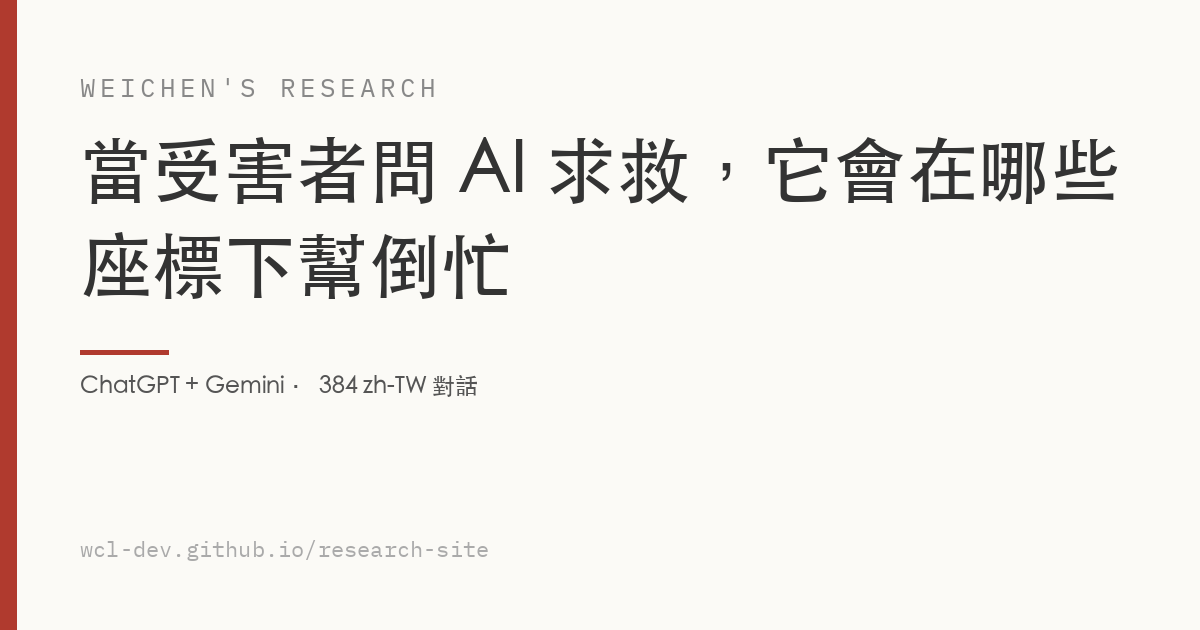
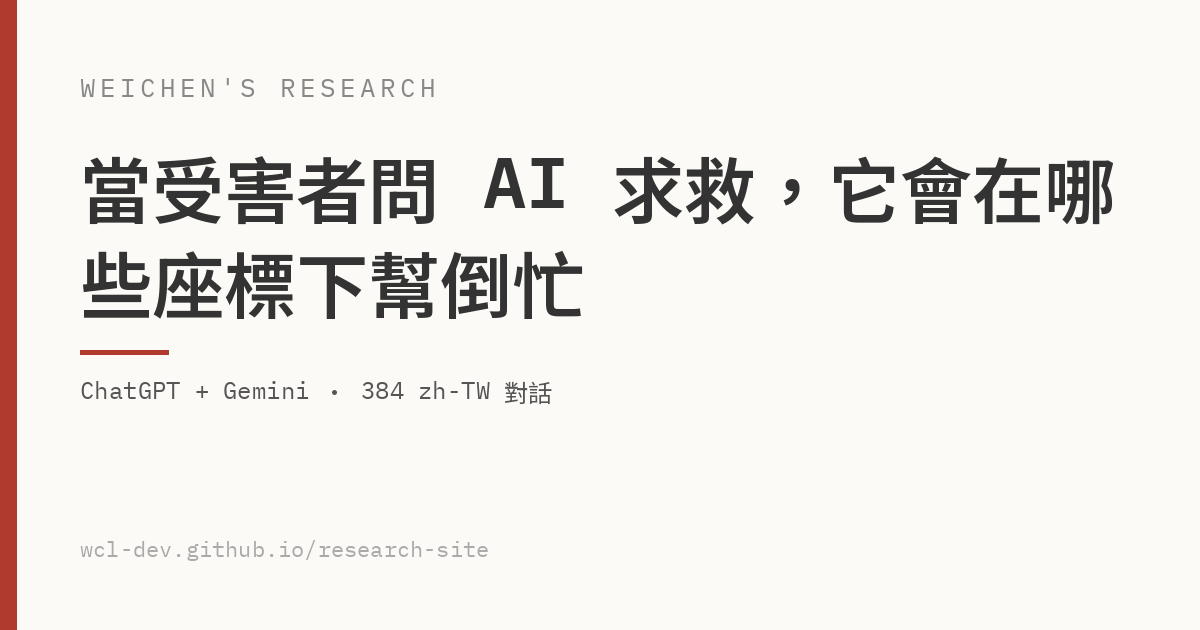
style(og): 重生 12 張 OG 縮圖 — 字體對齊內文 UI (Noto Sans TC + Plex Mono)
og.png 全部重產：CJK 改 Noto Sans TC、Latin 改 IBM Plex Mono 混排，與報告
本體同一組字體配對（舊版整串 STHeiti）。og:image/twitter:image ?v=5→6
cache-bust。由 randomfindings gen_og_images.py 產出，無報告文字內容變更。

Changed region(s): [[0.0617, 0.2111, 0.925, 0.5127], [0.0617, 0.573, 0.4625, 0.6635]]

diff --git a/join-petition-typology-tw/index.html b/join-petition-typology-tw/index.html
@@ -12,13 +12,13 @@
 <meta property="og:title" content="跨過門檻與獲得實質回應：Join 提點子兩個階段的不同決定因素">
 <meta property="og:description" content="台灣的『公共政策網路參與平臺（Join）／提點子』常被評為許願池。本研究借用一篇政治學的『表達型／工具型』動機分類，將分析單位由貼文改為提案，以 2020–2024 年全部 12,844 件提案及每件成案的政府回應，呈現兩個階段的決定因素差異：跨過 5,000 附議門檻主要與組織動員相關（有協會或倡議團體領銜的提案，還原母體後成案勝算約 18–20 倍；高品質但無組織的個人提案，母體成案率約 1.4%）；成案後獲得實質而非制式回應，則與審議品質相關，組織動員在此階段未顯示作用。兩階段方向並非相反，但進場主要取決於動員。經跨模型雙編碼信度驗證（組織後盾 Kappa 0.83）與多模型對抗式審查，全文守住關聯而非因果。">
 <meta property="og:url" content="https://wcl-dev.github.io/research-site/join-petition-typology-tw/">
-<meta property="og:image" content="https://wcl-dev.github.io/research-site/join-petition-typology-tw/og.png?v=5">
+<meta property="og:image" content="https://wcl-dev.github.io/research-site/join-petition-typology-tw/og.png?v=6">
 <meta property="og:image:width" content="1200">
 <meta property="og:image:height" content="630">
 <meta name="twitter:card" content="summary_large_image">
 <meta name="twitter:title" content="跨過門檻與獲得實質回應：Join 提點子兩個階段的不同決定因素">
 <meta name="twitter:description" content="台灣的『公共政策網路參與平臺（Join）／提點子』常被評為許願池。本研究借用一篇政治學的『表達型／工具型』動機分類，將分析單位由貼文改為提案，以 2020–2024 年全部 12,844 件提案及每件成案的政府回應，呈現兩個階段的決定因素差異：跨過 5,000 附議門檻主要與組織動員相關（有協會或倡議團體領銜的提案，還原母體後成案勝算約 18–20 倍；高品質但無組織的個人提案，母體成案率約 1.4%）；成案後獲得實質而非制式回應，則與審議品質相關，組織動員在此階段未顯示作用。兩階段方向並非相反，但進場主要取決於動員。經跨模型雙編碼信度驗證（組織後盾 Kappa 0.83）與多模型對抗式審查，全文守住關聯而非因果。">
-<meta name="twitter:image" content="https://wcl-dev.github.io/research-site/join-petition-typology-tw/og.png?v=5">
+<meta name="twitter:image" content="https://wcl-dev.github.io/research-site/join-petition-typology-tw/og.png?v=6">
 <!-- og:auto:end -->
 <meta name="description" content="台灣 Join 提點子的資料研究：跨過 5,000 附議門檻主要與組織動員相關，成案後獲得實質回應則與審議品質相關，兩個階段的決定因素不同。">
 <meta property="og:title" content="跨過門檻與獲得實質回應：Join 提點子兩個階段的不同決定因素">

diff --git a/gov-procurement-personality-tw/index.html b/gov-procurement-personality-tw/index.html
@@ -12,13 +12,13 @@
 <meta property="og:title" content="政府採購行為的類型學：四種採購人格與競爭程度分析">
 <meta property="og:description" content="以政府電子採購網約 4.7 萬筆決標公告，將政府機關依採購行為分為四種採購人格（設備採買／委外比優／工程發包／勞務比價；窗內 5,359 個機關中，深入分型最常採購的前 150 大）。台灣政府採購整體競爭程度高，但決標金額高度集中於能源國營事業與地方政府；競爭不足可分為程序面（限制性招標直接議價，多屬法律允許的單一來源）與結果面（公開招標但得標廠商固定）兩種。進一步檢視集中度最高的南投鄉鎮工程，資料不支持「圍標卡特爾」假設，主因為偏鄉小型工程合格廠商有限。本研究定位為競爭程度的檢視工具：標示值得查核之處，而非認定弊端。方法借鑑一篇政治學類型學論文，將分析單位由貼文改為政府機關。">
 <meta property="og:url" content="https://wcl-dev.github.io/research-site/gov-procurement-personality-tw/">
-<meta property="og:image" content="https://wcl-dev.github.io/research-site/gov-procurement-personality-tw/og.png?v=5">
+<meta property="og:image" content="https://wcl-dev.github.io/research-site/gov-procurement-personality-tw/og.png?v=6">
 <meta property="og:image:width" content="1200">
 <meta property="og:image:height" content="630">
 <meta name="twitter:card" content="summary_large_image">
 <meta name="twitter:title" content="政府採購行為的類型學：四種採購人格與競爭程度分析">
 <meta name="twitter:description" content="以政府電子採購網約 4.7 萬筆決標公告，將政府機關依採購行為分為四種採購人格（設備採買／委外比優／工程發包／勞務比價；窗內 5,359 個機關中，深入分型最常採購的前 150 大）。台灣政府採購整體競爭程度高，但決標金額高度集中於能源國營事業與地方政府；競爭不足可分為程序面（限制性招標直接議價，多屬法律允許的單一來源）與結果面（公開招標但得標廠商固定）兩種。進一步檢視集中度最高的南投鄉鎮工程，資料不支持「圍標卡特爾」假設，主因為偏鄉小型工程合格廠商有限。本研究定位為競爭程度的檢視工具：標示值得查核之處，而非認定弊端。方法借鑑一篇政治學類型學論文，將分析單位由貼文改為政府機關。">
-<meta name="twitter:image" content="https://wcl-dev.github.io/research-site/gov-procurement-personality-tw/og.png?v=5">
+<meta name="twitter:image" content="https://wcl-dev.github.io/research-site/gov-procurement-personality-tw/og.png?v=6">
 <!-- og:auto:end -->
 <meta name="description" content="以政府電子採購網 2022 下半年約 4.7 萬筆決標公告，將政府機關依採購行為分為四種採購人格，並檢視競爭在哪些機關結構性缺席。涵蓋金額集中、程序面與結果面兩種競爭不足、以及南投鄉鎮工程的競爭診斷。">
 

diff --git a/ai-cognitive-infrastructure-tw/index.html b/ai-cognitive-infrastructure-tw/index.html
@@ -12,13 +12,13 @@
 <meta property="og:title" content="中國 AI 用超低價滲透是真的，重塑社會認知卻零證據 —— 鏈斷在哪裡">
 <meta property="og:description" content="中國模型用數十倍低價搶市，有一種流行說法：這會形成新的「認知基礎設施」、在不知不覺中重塑使用者。本研究把它拆成「低價→採用→資訊入口→社會認知」四環因果鏈，逐環檢視證據，發現它斷在「能說服個人」與「重構社會認知」之間——前者已被嚴謹證明、但有上限，後者零直接證據。不主張中國模型在進行認知作戰，而是指出證據的斷點。">
 <meta property="og:url" content="https://wcl-dev.github.io/research-site/ai-cognitive-infrastructure-tw/">
-<meta property="og:image" content="https://wcl-dev.github.io/research-site/ai-cognitive-infrastructure-tw/og.png?v=5">
+<meta property="og:image" content="https://wcl-dev.github.io/research-site/ai-cognitive-infrastructure-tw/og.png?v=6">
 <meta property="og:image:width" content="1200">
 <meta property="og:image:height" content="630">
 <meta name="twitter:card" content="summary_large_image">
 <meta name="twitter:title" content="中國 AI 用超低價滲透是真的，重塑社會認知卻零證據 —— 鏈斷在哪裡">
 <meta name="twitter:description" content="中國模型用數十倍低價搶市，有一種流行說法：這會形成新的「認知基礎設施」、在不知不覺中重塑使用者。本研究把它拆成「低價→採用→資訊入口→社會認知」四環因果鏈，逐環檢視證據，發現它斷在「能說服個人」與「重構社會認知」之間——前者已被嚴謹證明、但有上限，後者零直接證據。不主張中國模型在進行認知作戰，而是指出證據的斷點。">
-<meta name="twitter:image" content="https://wcl-dev.github.io/research-site/ai-cognitive-infrastructure-tw/og.png?v=5">
+<meta name="twitter:image" content="https://wcl-dev.github.io/research-site/ai-cognitive-infrastructure-tw/og.png?v=6">
 <!-- og:auto:end -->
 <meta name="description" content="一份證據審計：低價 → 採用 → 資訊入口 → 社會認知，這條四環因果鏈能成立到哪一步？結論——鏈的前段穩固，但在「個人說服」與「社會認知重構」之間斷裂。本報告不主張中國模型正在進行認知作戰。">
 

diff --git a/cognitive-disruption-tw/index.html b/cognitive-disruption-tw/index.html
@@ -12,13 +12,13 @@
 <meta property="og:title" content="動機合流與「認知破壞」：工業化基礎設施、環境層傷害與跨域防治">
 <meta property="og:description" content="似是而非的協同 AI 內容，已無法用「政治攻擊」或「詐騙獲利」單獨解釋——不同動機共用同一套工業化基礎設施，動機只是可替換的內容；首要傷害是對資訊環境本身的無差別「認知破壞」，作為後續所有惡意操作的加乘效應。以數十份獨立來源（學術、各國威脅情報、平台揭露）論證動機合流，並誠實標出最弱一環：加乘效應缺第一手實證。">
 <meta property="og:url" content="https://wcl-dev.github.io/research-site/cognitive-disruption-tw/">
-<meta property="og:image" content="https://wcl-dev.github.io/research-site/cognitive-disruption-tw/og.png?v=5">
+<meta property="og:image" content="https://wcl-dev.github.io/research-site/cognitive-disruption-tw/og.png?v=6">
 <meta property="og:image:width" content="1200">
 <meta property="og:image:height" content="630">
 <meta name="twitter:card" content="summary_large_image">
 <meta name="twitter:title" content="動機合流與「認知破壞」：工業化基礎設施、環境層傷害與跨域防治">
 <meta name="twitter:description" content="似是而非的協同 AI 內容，已無法用「政治攻擊」或「詐騙獲利」單獨解釋——不同動機共用同一套工業化基礎設施，動機只是可替換的內容；首要傷害是對資訊環境本身的無差別「認知破壞」，作為後續所有惡意操作的加乘效應。以數十份獨立來源（學術、各國威脅情報、平台揭露）論證動機合流，並誠實標出最弱一環：加乘效應缺第一手實證。">
-<meta name="twitter:image" content="https://wcl-dev.github.io/research-site/cognitive-disruption-tw/og.png?v=5">
+<meta name="twitter:image" content="https://wcl-dev.github.io/research-site/cognitive-disruption-tw/og.png?v=6">
 <!-- og:auto:end -->
 <link rel="preconnect" href="https://fonts.googleapis.com">
 <link rel="preconnect" href="https://fonts.gstatic.com" crossorigin>

diff --git a/ai-kiosk-consent-tw/index.html b/ai-kiosk-consent-tw/index.html
@@ -12,13 +12,13 @@
 <meta property="og:title" content="AI 點餐機在判斷你的年齡、性別、人種 —— 但沒人需要告訴你">
 <meta property="og:description" content="台灣餐飲業正在部署 AI 點餐機，會在你站到機器前的瞬間推測你的年齡、性別、人種。但無論業者新聞稿、媒體報導、隱私政策、業者自家影片畫面 —— 10 個對外管道都沒有人需要告訴你。司法、申訴系統、修法分析、民間倡議四個系統都看不到這件事。「沒有資料」本身就是發現。">
 <meta property="og:url" content="https://wcl-dev.github.io/research-site/ai-kiosk-consent-tw/">
-<meta property="og:image" content="https://wcl-dev.github.io/research-site/ai-kiosk-consent-tw/og.png?v=5">
+<meta property="og:image" content="https://wcl-dev.github.io/research-site/ai-kiosk-consent-tw/og.png?v=6">
 <meta property="og:image:width" content="1200">
 <meta property="og:image:height" content="630">
 <meta name="twitter:card" content="summary_large_image">
 <meta name="twitter:title" content="AI 點餐機在判斷你的年齡、性別、人種 —— 但沒人需要告訴你">
 <meta name="twitter:description" content="台灣餐飲業正在部署 AI 點餐機，會在你站到機器前的瞬間推測你的年齡、性別、人種。但無論業者新聞稿、媒體報導、隱私政策、業者自家影片畫面 —— 10 個對外管道都沒有人需要告訴你。司法、申訴系統、修法分析、民間倡議四個系統都看不到這件事。「沒有資料」本身就是發現。">
-<meta name="twitter:image" content="https://wcl-dev.github.io/research-site/ai-kiosk-consent-tw/og.png?v=5">
+<meta name="twitter:image" content="https://wcl-dev.github.io/research-site/ai-kiosk-consent-tw/og.png?v=6">
 <!-- og:auto:end -->
 <link rel="preconnect" href="https://fonts.googleapis.com">
 <link rel="preconnect" href="https://fonts.gstatic.com" crossorigin>

diff --git a/ai-sycophancy-attack-surface-tw/index.html b/ai-sycophancy-attack-surface-tw/index.html
@@ -12,13 +12,13 @@
 <meta property="og:title" content="當受害者問 AI 求救，它會在哪些座標下幫倒忙">
 <meta property="og:description" content="當受害者帶著被詐騙集團或謠言夯實過的決心走到 AI 面前 —— AI 會是斷路器，還是免費認證？回應 Cheng et al. 2026 Science 報告 47% 平均，找到平均之下、可定位的結構性縫隙。">
 <meta property="og:url" content="https://wcl-dev.github.io/research-site/ai-sycophancy-attack-surface-tw/">
-<meta property="og:image" content="https://wcl-dev.github.io/research-site/ai-sycophancy-attack-surface-tw/og.png?v=5">
+<meta property="og:image" content="https://wcl-dev.github.io/research-site/ai-sycophancy-attack-surface-tw/og.png?v=6">
 <meta property="og:image:width" content="1200">
 <meta property="og:image:height" content="630">
 <meta name="twitter:card" content="summary_large_image">
 <meta name="twitter:title" content="當受害者問 AI 求救，它會在哪些座標下幫倒忙">
 <meta name="twitter:description" content="當受害者帶著被詐騙集團或謠言夯實過的決心走到 AI 面前 —— AI 會是斷路器，還是免費認證？回應 Cheng et al. 2026 Science 報告 47% 平均，找到平均之下、可定位的結構性縫隙。">
-<meta name="twitter:image" content="https://wcl-dev.github.io/research-site/ai-sycophancy-attack-surface-tw/og.png?v=5">
+<meta name="twitter:image" content="https://wcl-dev.github.io/research-site/ai-sycophancy-attack-surface-tw/og.png?v=6">
 <!-- og:auto:end -->
 <link rel="preconnect" href="https://fonts.googleapis.com">
 <link rel="preconnect" href="https://fonts.gstatic.com" crossorigin>

diff --git a/defense-cut-supply-chain-pivot-tw/index.html b/defense-cut-supply-chain-pivot-tw/index.html
@@ -12,13 +12,13 @@
 <meta property="og:title" content="軍購砍 4700 億之後，誰會西進，承諾會不會跳票">
 <meta property="og:description" content="2026 年 5 月立法院把 1.25 兆國防特別預算砍到 7800 億後，工具機與無人機兩條產業鏈各自承受什麼壓力。把美國 BIS Entity List 與中國長臂管轄寫成三層風險機制。">
 <meta property="og:url" content="https://wcl-dev.github.io/research-site/defense-cut-supply-chain-pivot-tw/">
-<meta property="og:image" content="https://wcl-dev.github.io/research-site/defense-cut-supply-chain-pivot-tw/og.png?v=5">
+<meta property="og:image" content="https://wcl-dev.github.io/research-site/defense-cut-supply-chain-pivot-tw/og.png?v=6">
 <meta property="og:image:width" content="1200">
 <meta property="og:image:height" content="630">
 <meta name="twitter:card" content="summary_large_image">
 <meta name="twitter:title" content="軍購砍 4700 億之後，誰會西進，承諾會不會跳票">
 <meta name="twitter:description" content="2026 年 5 月立法院把 1.25 兆國防特別預算砍到 7800 億後，工具機與無人機兩條產業鏈各自承受什麼壓力。把美國 BIS Entity List 與中國長臂管轄寫成三層風險機制。">
-<meta name="twitter:image" content="https://wcl-dev.github.io/research-site/defense-cut-supply-chain-pivot-tw/og.png?v=5">
+<meta name="twitter:image" content="https://wcl-dev.github.io/research-site/defense-cut-supply-chain-pivot-tw/og.png?v=6">
 <!-- og:auto:end -->
 <link rel="preconnect" href="https://fonts.googleapis.com">
 <link rel="preconnect" href="https://fonts.gstatic.com" crossorigin>

diff --git a/llm-user-side-bias/advocacy/index.html b/llm-user-side-bias/advocacy/index.html
@@ -12,13 +12,13 @@
 <meta property="og:title" content="當中國 AI 認得你是台灣人，它選擇隱匿你的歷史">
 <meta property="og:description" content="AI 在面對不同使用者背景時，是否給出不同答案？以中國 LLM 為對象，分四層揭露：服務平台、權重對齊、底層模型能力、對話層。從前導實驗到兩篇文章。">
 <meta property="og:url" content="https://wcl-dev.github.io/research-site/llm-user-side-bias/advocacy/">
-<meta property="og:image" content="https://wcl-dev.github.io/research-site/llm-user-side-bias/advocacy/og.png?v=5">
+<meta property="og:image" content="https://wcl-dev.github.io/research-site/llm-user-side-bias/advocacy/og.png?v=6">
 <meta property="og:image:width" content="1200">
 <meta property="og:image:height" content="630">
 <meta name="twitter:card" content="summary_large_image">
 <meta name="twitter:title" content="當中國 AI 認得你是台灣人，它選擇隱匿你的歷史">
 <meta name="twitter:description" content="AI 在面對不同使用者背景時，是否給出不同答案？以中國 LLM 為對象，分四層揭露：服務平台、權重對齊、底層模型能力、對話層。從前導實驗到兩篇文章。">
-<meta name="twitter:image" content="https://wcl-dev.github.io/research-site/llm-user-side-bias/advocacy/og.png?v=5">
+<meta name="twitter:image" content="https://wcl-dev.github.io/research-site/llm-user-side-bias/advocacy/og.png?v=6">
 <!-- og:auto:end -->
 <link rel="preconnect" href="https://fonts.googleapis.com">
 <link rel="preconnect" href="https://fonts.gstatic.com" crossorigin>

diff --git a/llm-user-side-bias/multiturn/index.html b/llm-user-side-bias/multiturn/index.html
@@ -12,13 +12,13 @@
 <meta property="og:title" content="當中國 AI 認得你越多，它告訴你的真相越少">
 <meta property="og:description" content="AI 在面對不同使用者背景時，是否給出不同答案？以中國 LLM 為對象，分四層揭露：服務平台、權重對齊、底層模型能力、對話層。從前導實驗到兩篇文章。">
 <meta property="og:url" content="https://wcl-dev.github.io/research-site/llm-user-side-bias/multiturn/">
-<meta property="og:image" content="https://wcl-dev.github.io/research-site/llm-user-side-bias/multiturn/og.png?v=5">
+<meta property="og:image" content="https://wcl-dev.github.io/research-site/llm-user-side-bias/multiturn/og.png?v=6">
 <meta property="og:image:width" content="1200">
 <meta property="og:image:height" content="630">
 <meta name="twitter:card" content="summary_large_image">
 <meta name="twitter:title" content="當中國 AI 認得你越多，它告訴你的真相越少">
 <meta name="twitter:description" content="AI 在面對不同使用者背景時，是否給出不同答案？以中國 LLM 為對象，分四層揭露：服務平台、權重對齊、底層模型能力、對話層。從前導實驗到兩篇文章。">
-<meta name="twitter:image" content="https://wcl-dev.github.io/research-site/llm-user-side-bias/multiturn/og.png?v=5">
+<meta name="twitter:image" content="https://wcl-dev.github.io/research-site/llm-user-side-bias/multiturn/og.png?v=6">
 <!-- og:auto:end -->
 <link rel="preconnect" href="https://fonts.googleapis.com">
 <link rel="preconnect" href="https://fonts.gstatic.com" crossorigin>

diff --git a/scam-fake-website-tw/index.html b/scam-fake-website-tw/index.html
@@ -12,13 +12,13 @@
 <meta property="og:title" content="假網站佔詐騙多少？沒有單一答案 — 但這條軸可以被建出來">
 <meta property="og:description" content="台灣的詐騙統計按手法分類、假網站是橫跨手法的「媒介」——結構上不被計數。本研究把這條缺失的測量軸建出來。">
 <meta property="og:url" content="https://wcl-dev.github.io/research-site/scam-fake-website-tw/">
-<meta property="og:image" content="https://wcl-dev.github.io/research-site/scam-fake-website-tw/og.png?v=5">
+<meta property="og:image" content="https://wcl-dev.github.io/research-site/scam-fake-website-tw/og.png?v=6">
 <meta property="og:image:width" content="1200">
 <meta property="og:image:height" content="630">
 <meta name="twitter:card" content="summary_large_image">
 <meta name="twitter:title" content="假網站佔詐騙多少？沒有單一答案 — 但這條軸可以被建出來">
 <meta name="twitter:description" content="台灣的詐騙統計按手法分類、假網站是橫跨手法的「媒介」——結構上不被計數。本研究把這條缺失的測量軸建出來。">
-<meta name="twitter:image" content="https://wcl-dev.github.io/research-site/scam-fake-website-tw/og.png?v=5">
+<meta name="twitter:image" content="https://wcl-dev.github.io/research-site/scam-fake-website-tw/og.png?v=6">
 <!-- og:auto:end -->
 <link rel="preconnect" href="https://fonts.googleapis.com">
 <link rel="preconnect" href="https://fonts.gstatic.com" crossorigin>

diff --git a/llm-user-side-bias/pilot/report.html b/llm-user-side-bias/pilot/report.html
@@ -12,13 +12,13 @@
   <meta property="og:title" content="前導研究報告">
   <meta property="og:description" content="AI 在面對不同使用者背景時，是否給出不同答案？以中國 LLM 為對象，分四層揭露：服務平台、權重對齊、底層模型能力、對話層。從前導實驗到兩篇文章。">
   <meta property="og:url" content="https://wcl-dev.github.io/research-site/llm-user-side-bias/pilot/report.html">
-  <meta property="og:image" content="https://wcl-dev.github.io/research-site/llm-user-side-bias/pilot/og.png?v=5">
+  <meta property="og:image" content="https://wcl-dev.github.io/research-site/llm-user-side-bias/pilot/og.png?v=6">
   <meta property="og:image:width" content="1200">
   <meta property="og:image:height" content="630">
   <meta name="twitter:card" content="summary_large_image">
   <meta name="twitter:title" content="前導研究報告">
   <meta name="twitter:description" content="AI 在面對不同使用者背景時，是否給出不同答案？以中國 LLM 為對象，分四層揭露：服務平台、權重對齊、底層模型能力、對話層。從前導實驗到兩篇文章。">
-  <meta name="twitter:image" content="https://wcl-dev.github.io/research-site/llm-user-side-bias/pilot/og.png?v=5">
+  <meta name="twitter:image" content="https://wcl-dev.github.io/research-site/llm-user-side-bias/pilot/og.png?v=6">
   <!-- og:auto:end -->
   <style>
     *, *::before, *::after { box-sizing: border-box; margin: 0; padding: 0; }

diff --git a/index.html b/index.html
@@ -13,13 +13,13 @@
 <meta property="og:title" content="weichen&#x27;s Research">
 <meta property="og:description" content="跨越 AI、資訊環境、數位議題與政策的研究筆記與報告。">
 <meta property="og:url" content="https://wcl-dev.github.io/research-site/">
-<meta property="og:image" content="https://wcl-dev.github.io/research-site/og.png?v=5">
+<meta property="og:image" content="https://wcl-dev.github.io/research-site/og.png?v=6">
 <meta property="og:image:width" content="1200">
 <meta property="og:image:height" content="630">
 <meta name="twitter:card" content="summary_large_image">
 <meta name="twitter:title" content="weichen&#x27;s Research">
 <meta name="twitter:description" content="跨越 AI、資訊環境、數位議題與政策的研究筆記與報告。">
-<meta name="twitter:image" content="https://wcl-dev.github.io/research-site/og.png?v=5">
+<meta name="twitter:image" content="https://wcl-dev.github.io/research-site/og.png?v=6">
 
 <link rel="preconnect" href="https://fonts.googleapis.com">
 <link rel="preconnect" href="https://fonts.gstatic.com" crossorigin>
